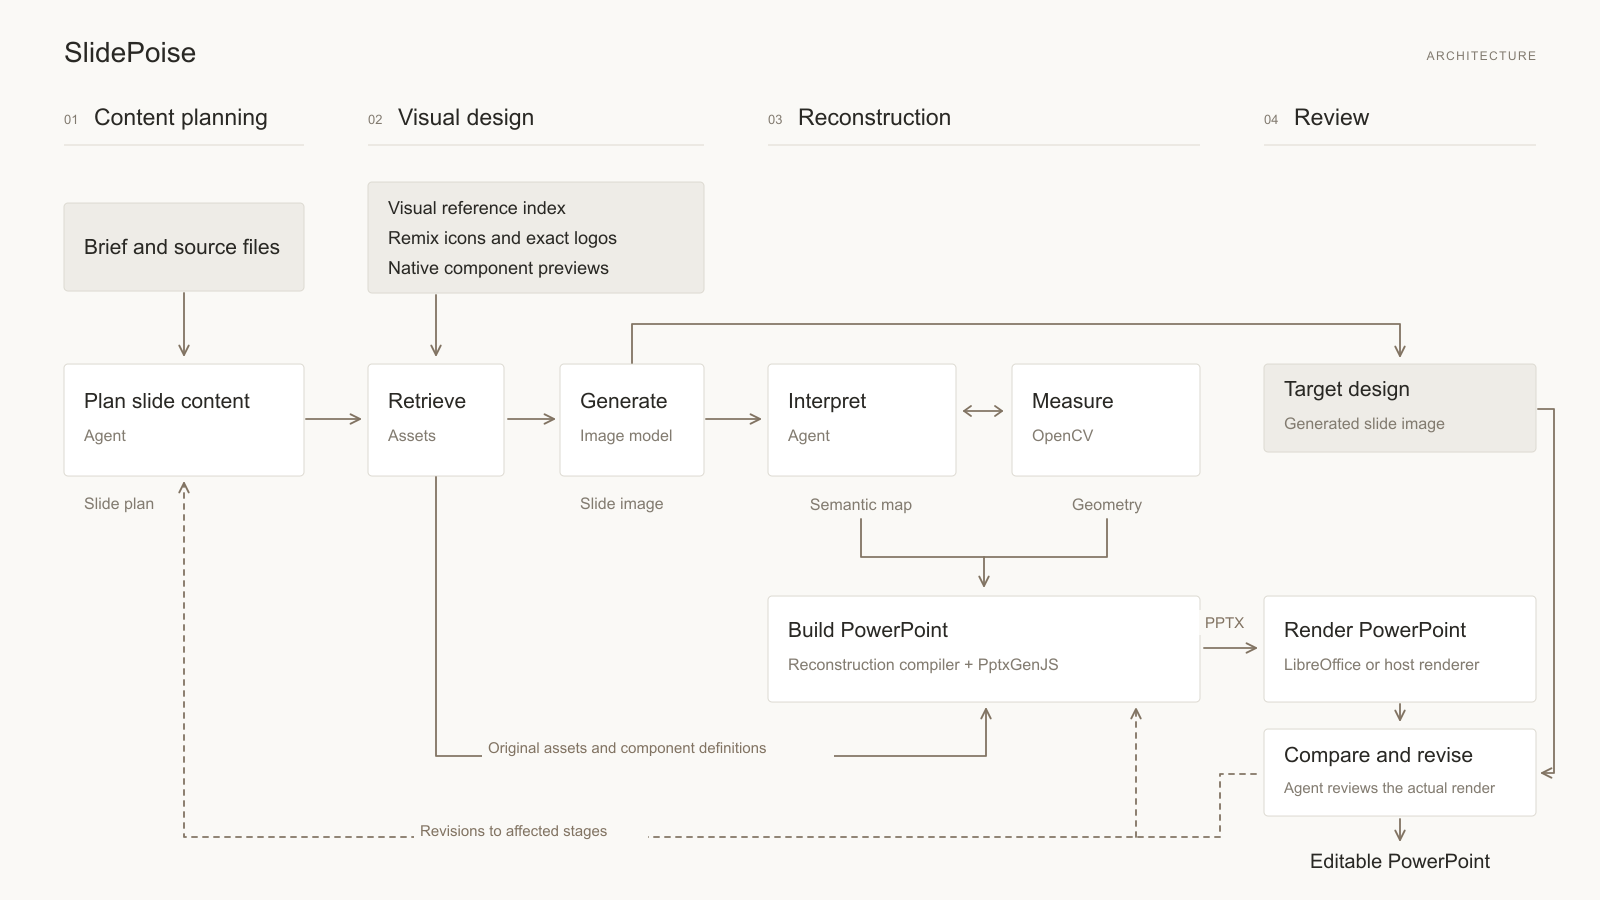
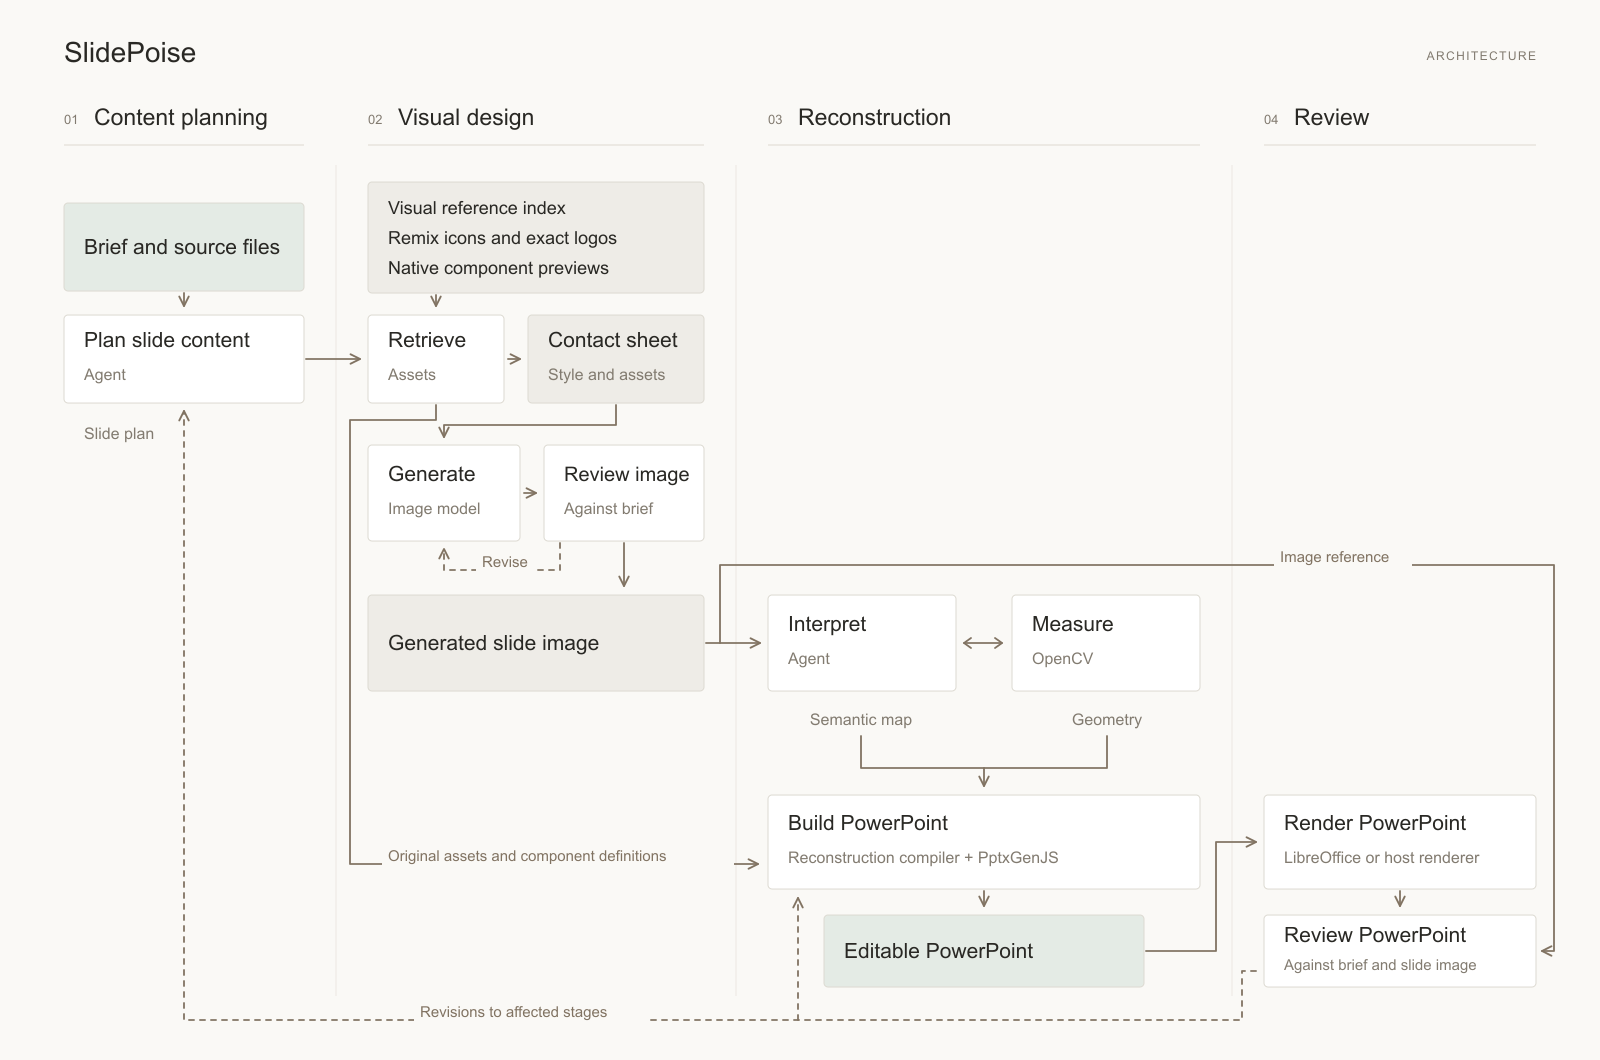
Synchronize the maintained SlidePoise website

diff --git a/index.html b/index.html
@@ -8,11 +8,11 @@
   <link rel="canonical" href="https://slidepoise.github.io/">
   <title>SlidePoise · Agentic Slide Generation</title>
   <link rel="icon" href="docs/site/mark.svg" type="image/svg+xml">
-  <link rel="stylesheet" href="docs/site/styles.css?v=20261008-retrieval">
+  <link rel="stylesheet" href="docs/site/styles.css?v=20261008-workflow-review">
   <link rel="stylesheet" href="docs/site/video-controls.css?v=20261005-fade">
   <link rel="stylesheet" href="/assets/video/slidepoise/cover.css?v=20261004">
   <link rel="stylesheet" href="docs/site/object-inspector.css?v=8ab3ff0c5c351406">
-  <script type="module" src="docs/site/app.mjs?v=20261008-architecture-colours"></script>
+  <script type="module" src="docs/site/app.mjs?v=20261008-workflow-review"></script>
   <script type="module" src="docs/site/asset-explorer.mjs?v=20260921-icon-path"></script>
 </head>
 <body id="top">
@@ -87,15 +87,15 @@
 
     <section id="philosophy" class="philosophy page-width" aria-labelledby="philosophy-title">
       <div class="section-heading architecture-heading"><h2 id="philosophy-title">How SlidePoise works</h2></div>
-      <p class="section-intro">Four stages connect the message to the finished deck. Content planning establishes the argument and evidence. Visual design retrieves useful references and assets, then explores compositions through image generation. Reconstruction combines the Agent’s interpretation with OpenCV measurements to build editable objects. Review checks the actual PowerPoint against the brief, chosen design and shared visual direction.</p>
+      <p class="section-intro">Content planning establishes the argument and evidence. Visual design assembles references and assets on a contact sheet, generates a slide image and checks it against the brief. Reconstruction combines the Agent’s interpretation with OpenCV measurements to build editable PowerPoint objects. The final review checks the rendered PowerPoint for content, consistency and fidelity to the generated image.</p>
       <figure id="architecture" class="system-architecture">
-        <button type="button" class="system-architecture-art" data-open-architecture aria-label="Enlarge SlidePoise architecture" aria-haspopup="dialog"><img src="/assets/img/projects/slidepoise-architecture-v1.svg?v=20261008-architecture-colours" width="1600" height="900" alt="Four stages of SlidePoise. Content planning, visual design with retrieval and generation, reconstruction with interpretation and measurement feeding the native build, and review of actual renders" loading="lazy" decoding="async"></button>
+        <button type="button" class="system-architecture-art" data-open-architecture aria-label="Enlarge SlidePoise architecture" aria-haspopup="dialog"><img src="/assets/img/projects/slidepoise-architecture-v1.svg?v=20261008-workflow-review" width="1600" height="1060" alt="Four stages of SlidePoise. Content planning, visual design with retrieval and generation, reconstruction with interpretation and measurement feeding the native build, and review of actual renders" loading="lazy" decoding="async"></button>
         <figcaption><span>System architecture</span><button type="button" data-open-architecture aria-label="Enlarge SlidePoise architecture" aria-haspopup="dialog"><span>Expand diagram</span><svg viewBox="0 0 20 20" aria-hidden="true"><path d="M12 3h5v5M17 3l-5.5 5.5M8 17H3v-5m0 5 5.5-5.5"/></svg></button></figcaption>
       </figure>
       <div id="walkthrough-loading" class="load-state" role="status">Loading the design example…</div>
       <div id="walkthrough" class="walkthrough" hidden>
         <article class="walkthrough-step">
-          <div class="walkthrough-heading"><h3>Plan the message, retrieve references and explore the design</h3><p class="subsection-intro">The Agent defines each slide’s message and evidence, then searches the reference library for useful ways to explain them. It inspects candidate pages and retrieves relevant icons, logos or native component previews. The selected resources and content become one image-generation request. Open the sample plan to see the content and instructions behind its design.</p></div>
+          <div class="walkthrough-heading"><h3>Plan the message, retrieve references and explore the design</h3><p class="subsection-intro">The Agent defines each slide’s message and evidence, then retrieves useful references, icons, logos or native component previews. A contact sheet brings those visual inputs together for image generation. The Agent reviews the resulting image for content, readability and layout before reconstruction. Open the sample plan to see the content and instructions behind its design.</p></div>
           <div class="design-demonstration">
             <button id="walkthrough-brief" class="content-card argument-panel" type="button" aria-label="Open the slide brief" aria-haspopup="dialog"><span class="actor-label">Agent · Slide plan</span><strong id="walkthrough-message" class="argument-message"></strong><span id="walkthrough-decision" class="argument-decision"></span><span id="walkthrough-support" class="argument-support"></span><span class="evidence-note">Illustrative planning assumptions from the sample brief.</span></button>
             <span class="flow-connector" aria-hidden="true"><svg viewBox="0 0 24 24"><path d="M3 12h17m-5-5 5 5-5 5"/></svg></span>
@@ -128,6 +128,18 @@
           <details><summary><strong>Your Library Sets</strong><span>Your artwork and components</span></summary><p>Store your own artwork and native components for reuse. Components keep their editable source, selected page, recorded preview and adaptation guidance. The Agent adapts supported chart and table definitions to your content and reconstructs other structures as native objects.</p></details>
         </div>
         </div>
+        <section id="contact-sheet" class="contact-sheet-example" aria-labelledby="contact-sheet-title">
+          <figure class="contact-sheet-preview">
+            <button id="contact-sheet-open" type="button" aria-label="Enlarge the generation contact sheet" aria-haspopup="dialog"><img src="docs/site/assets/contact-sheet/generation-contact-sheet.png" width="1038" height="978" alt="Example contact sheet with consulting style guidance, two public reference slides, a native chart preview and three Remix icons" loading="lazy" decoding="async"></button>
+            <figcaption><span>Example generation input</span><button id="contact-sheet-expand" type="button" aria-haspopup="dialog">Expand contact sheet</button></figcaption>
+          </figure>
+          <div class="contact-sheet-copy">
+            <h4 id="contact-sheet-title">See the visual inputs before generation</h4>
+            <p>A contact sheet places the chosen style beside the selected references and assets. You can inspect the same visual material supplied to the image model.</p>
+            <p>This example combines two public consulting references, a native chart component and three Remix icons. Their labels connect each preview to its role and original source.</p>
+            <p class="contact-sheet-sources">References from <a href="https://www.pwc.de/de/strategie-organisation-prozesse-systeme/pwc-enterprise-architecture-in-an-agile-world.pdf" target="_blank" rel="noopener">PwC</a> and <a href="https://www.pwc.no/no/publikasjoner/strategyand-desember-b2b-saas-2024.pdf" target="_blank" rel="noopener">Strategy&amp;</a>. Icons from <a href="https://remixicon.com/" target="_blank" rel="noopener">Remix Icon</a>.</p>
+          </div>
+        </section>
         <div class="asset-decisions" id="asset-decisions">
           <div class="asset-case-header"><span>Slides from the consulting sample</span><div class="asset-cases" role="tablist" aria-label="Slides from the consulting sample">
             <button id="asset-case-0" role="tab" aria-selected="true" aria-controls="asset-case-panel" data-asset-case="0" aria-label="Slide 2 of the consulting sample"><img src="examples/consulting-ai-transformation/assets/s02-opportunities-render.png" alt="" width="160" height="90" loading="lazy"><span>Slide 2</span></button>

diff --git a/docs/site/styles.css b/docs/site/styles.css
@@ -965,7 +965,7 @@ body[data-input="keyboard"] .content-card, body[data-input="keyboard"] .content-
 }
 
 /* The architecture introduces the walkthrough without joining the examples. */
-.system-architecture { width: min(100%, calc((100svh - 160px) * 1600 / 900)); margin: 36px auto 44px; }
+.system-architecture { width: min(100%, calc((100svh - 160px) * 1600 / 1060)); margin: 36px auto 44px; }
 .system-architecture-art { display: block; width: 100%; padding: 0; border: 0; background: #eeebe4; cursor: zoom-in; }
 .system-architecture-art img { display: block; width: 100%; height: auto; }
 .system-architecture figcaption { display: flex; align-items: center; justify-content: space-between; gap: 20px; margin-top: 6px; color: var(--muted); font-size: 12px; }
@@ -1115,3 +1115,25 @@ body[data-input="keyboard"] .content-card, body[data-input="keyboard"] .content-
 .workflow-responsibilities dt { font-size:11px; font-weight:650; color:#344258; margin-bottom:4px; }
 .workflow-responsibilities dd { margin:0; font-size:12px; line-height:1.65; color:#646e7e; }
 @media (max-width:600px) { .workflow-responsibilities { gap:12px; } }
+
+.contact-sheet-example { display: grid; grid-template-columns: minmax(0, .9fr) minmax(0, 1.1fr); align-items: center; gap: 48px; margin-top: 38px; }
+.contact-sheet-preview { margin: 0; min-width: 0; }
+.contact-sheet-preview > button { display: block; width: 100%; padding: 0; border: 1px solid var(--line); background: #fff; cursor: zoom-in; }
+.contact-sheet-preview img { display: block; width: 100%; height: auto; }
+.contact-sheet-preview figcaption { display: flex; justify-content: space-between; gap: 16px; margin-top: 12px; font-size: 11px; line-height: 1.5; color: var(--muted); }
+.contact-sheet-preview figcaption button { padding: 0; background: transparent; border: 0; color: inherit; font: inherit; text-decoration: underline; text-underline-offset: 3px; }
+.contact-sheet-copy h4 { font-size: 21px; line-height: 1.4; font-weight: 550; letter-spacing: -.025em; margin: 0 0 14px; }
+.contact-sheet-copy p { font-size: 14px; line-height: 1.75; color: var(--muted); margin: 0 0 14px; }
+.contact-sheet-copy .contact-sheet-sources { font-size: 11px; margin-bottom: 0; }
+.contact-sheet-sources a { color: inherit; text-underline-offset: 3px; }
+@media (max-width: 700px) {
+  .contact-sheet-example { grid-template-columns: minmax(0, 1fr); gap: 24px; margin-top: 30px; }
+  .contact-sheet-copy { grid-row: 1; }
+  .contact-sheet-preview { width: 100%; max-width: 460px; justify-self: center; }
+}
+@media (min-width: 1100px) {
+  .asset-library-system > .contact-sheet-example { grid-column: 1 / -1; grid-row: 2; grid-template-columns: minmax(0, .9fr) minmax(0, 1.1fr); width: 100%; max-width: 1000px; justify-self: center; margin-top: 0; }
+}
+@media (max-width: 1099px) {
+  .contact-sheet-example { margin-bottom: 40px; }
+}
